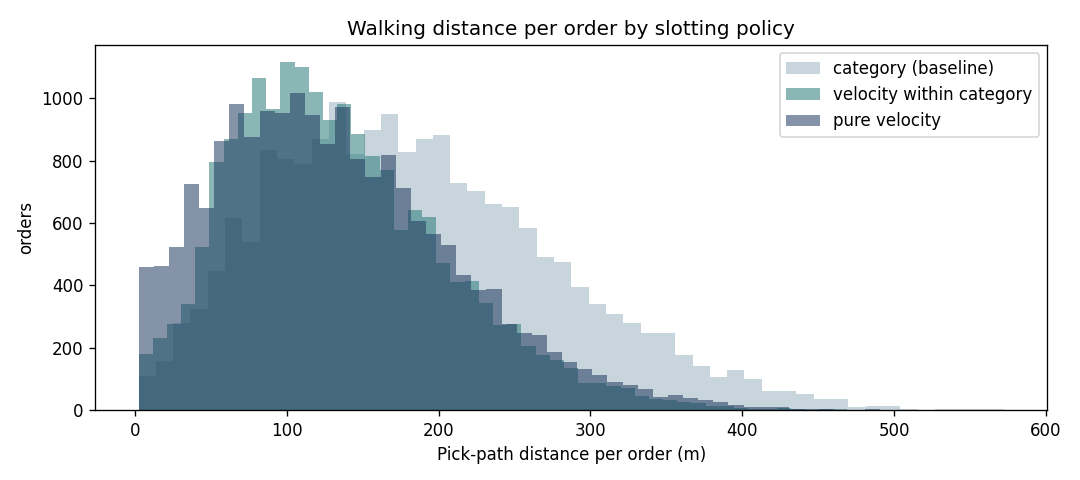
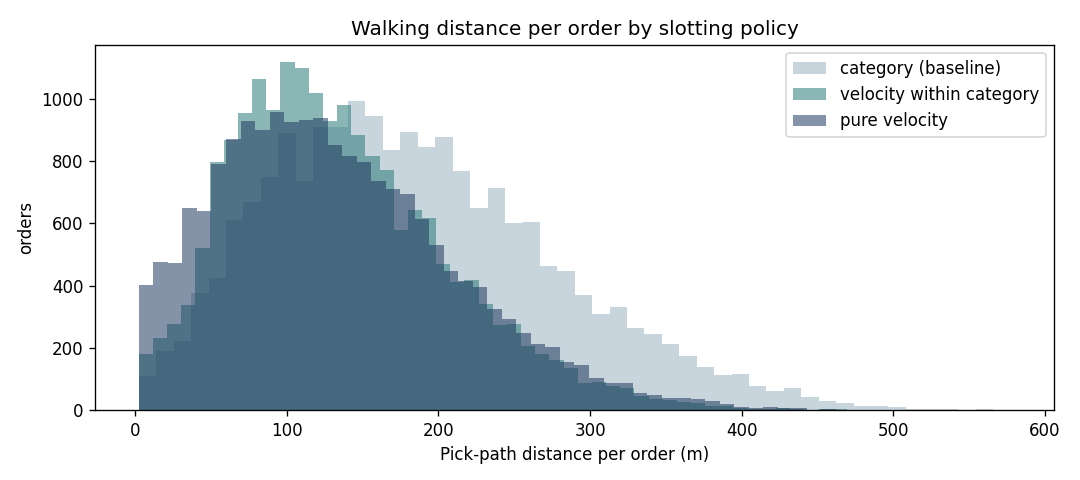
Add inventory accuracy, cycle counting and peak capacity modules

diff --git a/run.py b/run.py
@@ -18,6 +18,8 @@ import numpy as np  # noqa: E402
 import pandas as pd  # noqa: E402
 
 import capacity as Q  # noqa: E402
+import capacity_plan as CP  # noqa: E402
+import inventory_accuracy as IA  # noqa: E402
 import config as C  # noqa: E402
 import layout as L  # noqa: E402
 import replenishment as R  # noqa: E402
@@ -46,14 +48,16 @@ def load(data: Path):
         JOIN sample USING (order_id) JOIN carried USING (product_id)""").df()
     hours = con.execute(f"""SELECT CAST(order_hour_of_day AS INTEGER) AS hour, COUNT(*) AS orders
         FROM read_csv_auto('{p('orders.csv')}') GROUP BY 1 ORDER BY 1""").df()
-    return skus, lines, hours, total_lines
+    days = con.execute(f"""SELECT CAST(order_dow AS INTEGER) AS dow, COUNT(*) AS orders
+        FROM read_csv_auto('{p('orders.csv')}') GROUP BY 1 ORDER BY 1""").df()
+    return skus, lines, hours, total_lines, days
 
 
 def main():
     ap = argparse.ArgumentParser()
     ap.add_argument("--data", default=str(ROOT / "data"))
     a = ap.parse_args()
-    skus, lines, hours, total_lines = load(Path(a.data))
+    skus, lines, hours, total_lines, days = load(Path(a.data))
     coverage = skus["picks"].sum() / total_lines
     skus = R.abc(skus)
 
@@ -81,7 +85,26 @@ def main():
                                       avg_min=("min_units", "mean"), avg_max=("max_units", "mean")).reset_index()
     by_class["share_of_picks"] = (by_class["share_of_picks"] / rep["picks"].sum()).round(3)
 
+    acc = IA.compare(rep)
+    peak_hour_share = hours["share"].max()
+    peak_day_factor = days["orders"].max() / days["orders"].mean()
+    cap = []
+    for _, row in perf.iterrows():
+        t = CP.throughput(row["avg_pick_seconds"])
+        cap.append({"layout": row["layout"], **{k: (round(v, 1) if isinstance(v, float) else v) for k, v in t.items()}})
+    cap = pd.DataFrame(cap)
+    peak_now = C.DAILY_ORDERS * peak_day_factor * peak_hour_share
+    new_store = pd.DataFrame([{"layout": r["layout"], **CP.size_store(C.NEW_STORE_DAILY_ORDERS, peak_hour_share, peak_day_factor, r["avg_pick_seconds"])}
+                              for _, r in perf.iterrows()])
+
     (ROOT / "results").mkdir(exist_ok=True); (ROOT / "charts").mkdir(exist_ok=True)
+    acc.round(4).to_csv(ROOT / "results/cycle_count_policies.csv", index=False)
+    cap.to_csv(ROOT / "results/peak_throughput.csv", index=False)
+    new_store.to_csv(ROOT / "results/new_store_sizing.csv", index=False)
+    fig, ax = plt.subplots(figsize=(7, 3.6))
+    ax.bar(acc["policy"], 100 * acc["pick_weighted_inaccuracy"], color=["#9DB4C0", "#2C7A7B", "#1F3A5F"])
+    ax.set_ylabel("% of picks from a wrong record"); ax.set_title(f"Cycle-count policies, same budget ({int(acc.iloc[0].counts_per_day)} counts/day)")
+    fig.tight_layout(); fig.savefig(ROOT / "charts/cycle_count_policies.png", dpi=120); plt.close(fig)
     perf.to_csv(ROOT / "results/layout_comparison.csv", index=False)
     staff.round(2).to_csv(ROOT / "results/staffing_by_hour.csv", index=False)
     rep.head(50).round(2).to_csv(ROOT / "results/min_max_top50.csv", index=False)
@@ -119,6 +142,20 @@ def main():
         f"- Staffing at {C.DAILY_ORDERS:,} orders/day, {int(C.SLA_TARGET * 100)}% of orders starting within {C.SLA_WAIT_SECONDS} s: "
         + ", ".join(f"{k}: {v} picker-hours/day" for k, v in picker_hours.items()) + ".",
         f"- Replenishment (1-day lead time, daily review, ~95% service): A-class SKUs average min {a_row.avg_min:.0f} / max {a_row.avg_max:.0f} units.",
+    ]
+    u, ab, ex = acc.iloc[0], acc.iloc[1], acc.iloc[2]
+    c0, c1 = cap.iloc[0], cap.iloc[1]
+    ns0, ns1 = new_store.iloc[0], new_store.iloc[1]
+    lines_md += [
+        f"- Inventory accuracy (simulated {C.SIM_DAYS} days, {int(u.counts_per_day)} counts/day): picks from a wrong record fall from "
+        f"{100 * u.pick_weighted_inaccuracy:.1f}% (uniform counting) to {100 * ab.pick_weighted_inaccuracy:.1f}% (ABC) and "
+        f"{100 * ex.pick_weighted_inaccuracy:.1f}% (ABC + short-pick exceptions) with the same labour; error sources: "
+        f"damage {100 * u.cause_damage:.0f}%, mis-picks {100 * u['cause_mis-pick']:.0f}%, receiving {100 * u.cause_receiving:.0f}%.",
+        f"- Peak load: busiest day is {peak_day_factor:.2f}x an average day and the busiest hour takes {100 * peak_hour_share:.1f}% of orders, "
+        f"so a 1,200-order store peaks at ~{peak_now:.0f} orders/hour. With {C.PICKERS_ON_SHIFT} pickers and {C.PACK_STATIONS} packing stations, "
+        f"max throughput is {c0.max_orders_per_h:.0f}/h with category slotting ({c0.binding} bind) and {c1.max_orders_per_h:.0f}/h with velocity-within-category ({c1.binding} bind).",
+        f"- New store at {C.NEW_STORE_DAILY_ORDERS:,} orders/day: peak hour ~{ns0.peak_hour_orders:.0f} orders needs {ns0.pickers_at_peak} pickers with category slotting "
+        f"vs {ns1.pickers_at_peak} with velocity-within-category, and {ns1.pack_stations} packing stations.",
     ]
     (ROOT / "results/summary.md").write_text("\n".join(lines_md) + "\n")
     print("\n".join(lines_md))

diff --git a/src/inventory_accuracy.py b/src/inventory_accuracy.py
@@ -1,0 +1,62 @@
+"""Inventory record accuracy and cycle-count policies (simulation).
+
+Each SKU has a system record and a physical shelf count. Every day, errors open a gap
+(system - shelf): mis-picks, unrecorded damage (higher for fresh food) and receiving errors.
+Counting a SKU closes its gap. With a fixed daily counting budget, compare three policies:
+  uniform          - count SKUs round-robin
+  abc              - count fast movers more often (priority = days since count x class weight)
+  abc + exceptions - as abc, but first count any SKU a picker flagged as short
+Metric: share of daily picks that come from a location whose record is wrong (pick-weighted
+inaccuracy), because that is what causes failed picks and phantom stock.
+"""
+import numpy as np
+import pandas as pd
+
+import config as C
+
+WEIGHT = {"A": 6.0, "B": 2.0, "C": 1.0}
+
+
+def simulate(skus: pd.DataFrame, policy: str, seed: int = C.SEED) -> dict:
+    rng = np.random.default_rng(seed)
+    n = len(skus)
+    demand = skus["daily_demand"].to_numpy()
+    dmg = skus["department"].map(C.DAMAGE_RATE).fillna(C.DAMAGE_RATE_DEFAULT).to_numpy()
+    w = skus["abc"].map(WEIGHT).to_numpy()
+    budget = int(C.COUNT_HOURS_PER_DAY * 3600 / C.COUNT_SECONDS)
+    gap = np.zeros(n)
+    since = rng.integers(0, 30, n).astype(float)
+    flagged = np.zeros(n, dtype=bool)
+    cause = {"mis-pick": 0.0, "damage": 0.0, "receiving": 0.0}
+    bad_picks = total_picks = 0.0
+    rr = 0
+    for _ in range(C.SIM_DAYS):
+        sold = rng.poisson(demand)
+        total_picks += sold.sum()
+        bad_picks += sold[gap != 0].sum()
+        mis = rng.binomial(sold, C.MISPICK_RATE) * rng.choice([-1, 1], n)
+        dam = rng.binomial(sold, dmg)                              # shelf lower than system
+        rec = (rng.random(n) < C.RECEIVING_ERROR_RATE * np.minimum(1, demand)) * rng.integers(-3, 4, n)
+        gap += mis + dam + rec
+        cause["mis-pick"] += np.abs(mis).sum(); cause["damage"] += dam.sum(); cause["receiving"] += np.abs(rec).sum()
+        flagged |= (gap > 0) & (sold > 0) & (rng.random(n) < C.SHORT_PICK_FLAG_PROB)
+        if policy == "uniform":
+            idx = (rr + np.arange(budget)) % n; rr = (rr + budget) % n
+        else:
+            pri = since * w
+            if policy == "abc + exceptions":
+                pri = pri + flagged * 1e9                              # flagged SKUs first
+            idx = np.argsort(-pri)[:budget]
+        gap[idx] = 0; since[idx] = 0; flagged[idx] = False
+        since += 1
+    by_class = {k: float((gap[skus["abc"].to_numpy() == k] == 0).mean()) for k in "ABC"}
+    tot = sum(cause.values())
+    return {"policy": policy, "counts_per_day": budget,
+            "pick_weighted_inaccuracy": bad_picks / total_picks,
+            "record_accuracy_end": float((gap == 0).mean()),
+            **{f"accuracy_{k}": v for k, v in by_class.items()},
+            **{f"cause_{k}": v / tot for k, v in cause.items()}}
+
+
+def compare(skus: pd.DataFrame) -> pd.DataFrame:
+    return pd.DataFrame([simulate(skus, p) for p in ["uniform", "abc", "abc + exceptions"]])

diff --git a/src/capacity_plan.py b/src/capacity_plan.py
@@ -1,0 +1,26 @@
+"""Peak-hour throughput and new-store sizing.
+
+Throughput limits per hour: pickers (pickers x 3600 / pick seconds), packing stations
+(stations x 3600 / pack seconds). The binding constraint is the lower one. Storage limit:
+SKUs carried vs slots. New-store sizing uses the Erlang C staffing model at the peak hour.
+"""
+import math
+
+import capacity as Q
+import config as C
+
+
+def throughput(pick_seconds: float, pickers: int = C.PICKERS_ON_SHIFT, stations: int = C.PACK_STATIONS) -> dict:
+    pick_cap = pickers * 3600 / pick_seconds
+    pack_cap = stations * 3600 / C.PACK_SECONDS
+    return {"picker_capacity_per_h": pick_cap, "packing_capacity_per_h": pack_cap,
+            "max_orders_per_h": min(pick_cap, pack_cap),
+            "binding": "pickers" if pick_cap < pack_cap else "packing"}
+
+
+def size_store(daily_orders: float, peak_hour_share: float, peak_day_factor: float, pick_seconds: float) -> dict:
+    peak_orders = daily_orders * peak_day_factor * peak_hour_share
+    pickers = Q.pickers_needed(peak_orders, pick_seconds)
+    stations = math.ceil(peak_orders * C.PACK_SECONDS / 3600 / 0.85)          # keep stations under 85% busy
+    return {"daily_orders": daily_orders, "peak_hour_orders": round(peak_orders, 1),
+            "pickers_at_peak": pickers, "pack_stations": stations}

diff --git a/tests/test_ops.py b/tests/test_ops.py
@@ -40,3 +40,26 @@ def test_min_max_ordering():
     skus = R.abc(pd.DataFrame({"product_id": [1, 2, 3], "department": "x", "picks": [900, 90, 10]}))
     mm = R.min_max(skus, 1000).set_index("product_id")
     assert (mm["max_units"] >= mm["min_units"]).all() and mm.loc[1, "abc"] == "A"
+
+
+import capacity_plan as CP  # noqa: E402
+import inventory_accuracy as IA  # noqa: E402
+
+
+def _skus():
+    df = pd.DataFrame({"product_id": range(1, 301), "department": ["produce"] * 100 + ["pantry"] * 200,
+                       "picks": list(range(300, 0, -1))})
+    return R.min_max(R.abc(df), 3000)
+
+
+def test_abc_counting_beats_uniform_with_same_budget():
+    acc = IA.compare(_skus()).set_index("policy")
+    assert acc.loc["abc + exceptions", "pick_weighted_inaccuracy"] <= acc.loc["uniform", "pick_weighted_inaccuracy"]
+    assert abs(acc.filter(like="cause_").iloc[0].sum() - 1) < 1e-9
+
+
+def test_throughput_binding_constraint():
+    t = CP.throughput(pick_seconds=300, pickers=8, stations=3)     # pickers 96/h, packing 240/h
+    assert t["binding"] == "pickers" and t["max_orders_per_h"] == 96
+    s = CP.size_store(2000, 0.08, 1.2, 240)
+    assert s["pickers_at_peak"] >= 1 and s["pack_stations"] >= 1

diff --git a/src/config.py b/src/config.py
@@ -18,3 +18,19 @@ REVIEW_DAYS = 1              # store reorders once a day
 SERVICE_Z = 1.65             # ~95% cycle service level
 CV_BY_CLASS = {"A": 0.30, "B": 0.50, "C": 0.80}   # assumed day-to-day demand variability
 SEED = 7
+
+# ---- Inventory accuracy and cycle counting (assumptions) ----
+SIM_DAYS = 60
+MISPICK_RATE = 0.0015          # share of pick lines where the wrong item or quantity is taken
+DAMAGE_RATE = {"produce": 0.004, "dairy eggs": 0.002, "bakery": 0.003}   # unrecorded write-offs per unit sold
+DAMAGE_RATE_DEFAULT = 0.0005
+RECEIVING_ERROR_RATE = 0.01   # share of replenishment receipts booked with the wrong quantity
+COUNT_SECONDS = 40            # time to count one SKU location
+COUNT_HOURS_PER_DAY = 2.0     # daily cycle-count labour budget
+SHORT_PICK_FLAG_PROB = 0.5    # chance a picker flags a short pick when shelf < system
+
+# ---- Capacity and new-store planning (assumptions) ----
+PICKERS_ON_SHIFT = 12
+PACK_STATIONS = 3
+PACK_SECONDS = 45             # packing time per order at a station
+NEW_STORE_DAILY_ORDERS = 2000

diff --git a/README.md b/README.md
@@ -12,6 +12,9 @@ public dataset (3.2M orders) stands in for a dark store's order stream.
 - Pick time per order fell 18% (286 s to 236 s), cutting staffing from 179 to 156 picker-hours a day (about 13%) at 1,200 orders/day with 95% of orders starting within 60 s.
 - Replenishment: A-class SKUs need an average min of 11 and max of 19 units at a 1-day lead time and ~95% service.
 - The top 2,000 SKUs cover only 66% of Instacart picks (a long tail); a curated range would concentrate picks further and likely increase the gains.
+- **Inventory accuracy (simulation, same 2 hours of counting a day):** picks from a wrong system record fall from 23.3% with round-robin counting to 18.8% with ABC counting and 8.9% when SKUs a picker flags as short are counted first. Receiving errors cause 52% of record gaps (damage 30%, mis-picks 18%), so checking quantities at receiving is the biggest root-cause fix.
+- **Peak capacity:** the busiest day is 1.23x an average day and the peak hour takes 8.4% of orders (~124 orders/hour for a 1,200-order store). With 12 pickers, velocity-within-category slotting raises maximum throughput from 152 to 183 orders/hour (+20%); pickers are the binding constraint, not packing.
+- **New-store sizing:** a 2,000-order/day store needs 19 pickers at peak with velocity-within-category slotting vs 22 with category slotting, and 4 packing stations.
 
 ## What it does
 1. **Range and ABC:** keeps the top 2,000 SKUs (what one dark store might carry) and classifies them A/B/C by pick volume.
@@ -24,7 +27,9 @@ public dataset (3.2M orders) stands in for a dark store's order stream.
    (walk + seconds per item + seconds per order).
 4. **Staffing** (`src/capacity.py`): an Erlang C queueing model gives the fewest pickers each hour so that 95% of
    orders start picking within 60 seconds, using the real hour-of-day order pattern.
-5. **Replenishment** (`src/replenishment.py`): min/max (reorder point and order-up-to) per SKU for DC-to-store
+5. **Inventory accuracy** (`src/inventory_accuracy.py`): simulates system-vs-shelf gaps from mis-picks, unrecorded damage and receiving errors, and compares cycle-count policies on the same labour budget.
+6. **Peak capacity and new-store sizing** (`src/capacity_plan.py`): peak day and hour from real order timing, throughput limits (pickers vs packing) and staffing for a new store.
+7. **Replenishment** (`src/replenishment.py`): min/max (reorder point and order-up-to) per SKU for DC-to-store
    replenishment, with safety stock by ABC class.
 
 ## Assumptions (all in `src/config.py`)

diff --git a/results/summary.md b/results/summary.md
@@ -2,7 +2,10 @@
 
 - Store range: top 2,000 SKUs cover 66% of all Instacart pick lines; 931 A-class SKUs (47% of the range) take 80% of picks.
 - Measured on 19,064 real orders (7.0 lines each within the range).
-- Walking per order: 185 m with category slotting; 135 m with velocity-within-category (27% less); 133 m with pure velocity slotting (28% less).
-- Pick time per order: 286 s → 236 s → 234 s (18% and 18% faster).
+- Walking per order: 184 m with category slotting; 135 m with velocity-within-category (27% less); 133 m with pure velocity slotting (28% less).
+- Pick time per order: 285 s → 236 s → 234 s (17% and 18% faster).
 - Staffing at 1,200 orders/day, 95% of orders starting within 60 s: category (baseline): 179 picker-hours/day, velocity within category: 156 picker-hours/day, pure velocity: 156 picker-hours/day.
 - Replenishment (1-day lead time, daily review, ~95% service): A-class SKUs average min 11 / max 19 units.
+- Inventory accuracy (simulated 60 days, 180 counts/day): picks from a wrong record fall from 23.3% (uniform counting) to 18.8% (ABC) and 8.9% (ABC + short-pick exceptions) with the same labour; error sources: damage 30%, mis-picks 18%, receiving 52%.
+- Peak load: busiest day is 1.23x an average day and the busiest hour takes 8.4% of orders, so a 1,200-order store peaks at ~124 orders/hour. With 12 pickers and 3 packing stations, max throughput is 152/h with category slotting (pickers bind) and 183/h with velocity-within-category (pickers bind).
+- New store at 2,000 orders/day: peak hour ~207 orders needs 22 pickers with category slotting vs 19 with velocity-within-category, and 4 packing stations.
